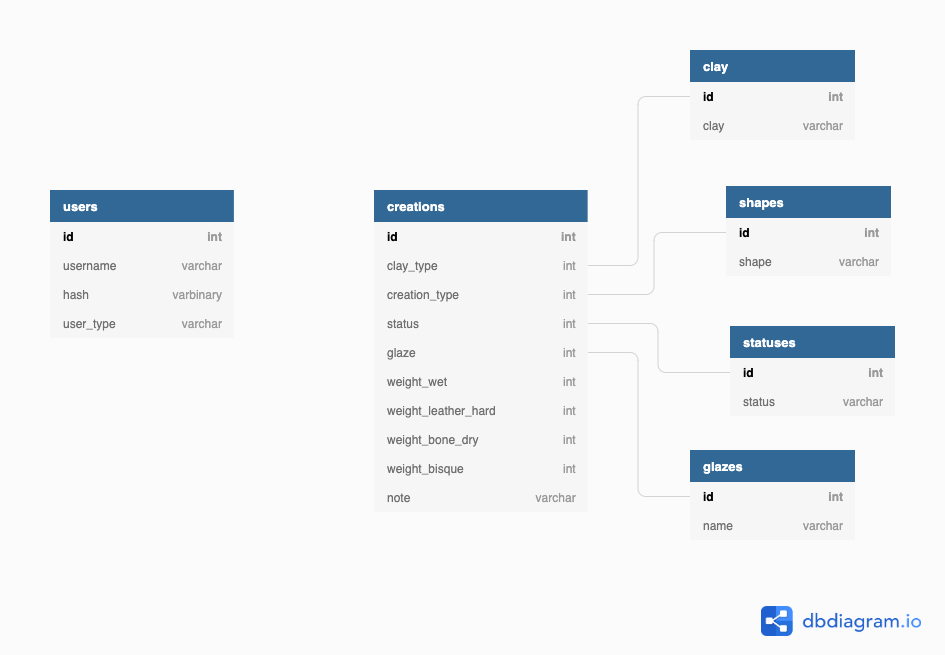
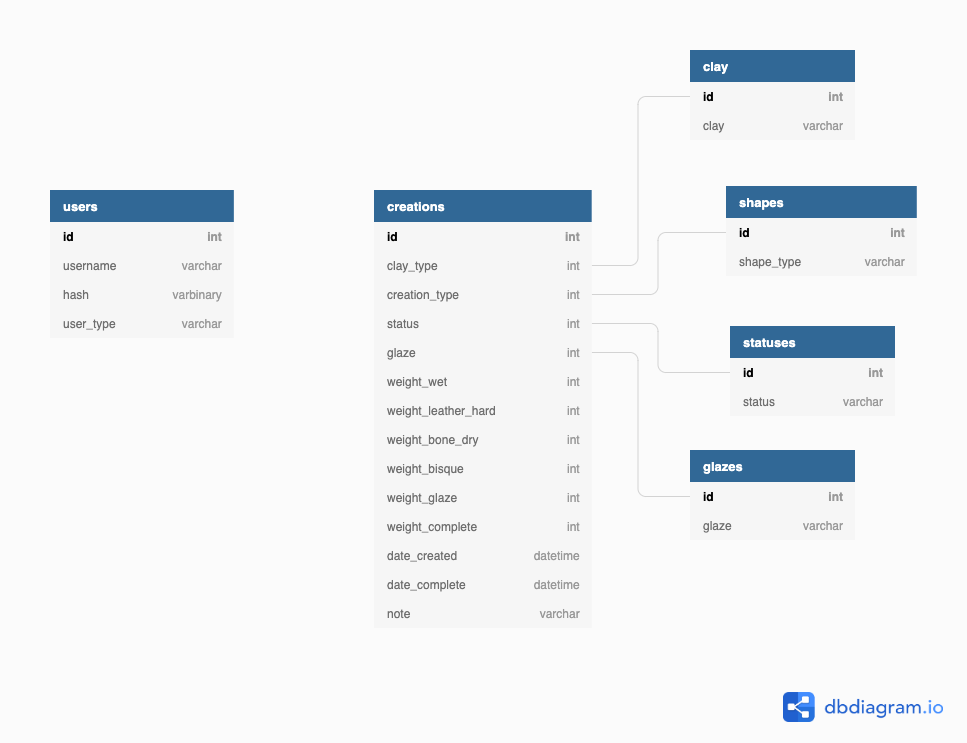
update details and erd diagram

diff --git a/docs/database.md b/docs/database.md
@@ -15,7 +15,7 @@
   | Column Name | Data Type | Purpose |
   | --- | --- | --- |
   | id | int | 
-  | name | string |  
+  | clay | string |  
 
 ## DB - shapes
   | Column Name | Data Type | Purpose |
@@ -33,7 +33,7 @@
   | Column Name | Data Type | Purpose |
   | --- | --- | --- |
   | id | int | | 
-  | name | string |  
+  | glaze | string |  
   
 ## DB - creations
   | Column Name | Data Type | Purpose |
@@ -47,4 +47,8 @@
   | weight_leather_hard | int |
   | weight_bone_dry | int |
   | weight_bisque | int |
+  | weight_glaze | int |
+  | weight_complete | int |
+  | date_created | datetime |
+  | date_complete | datetime |
   | note | string | Type of pattern/ glaze style  
